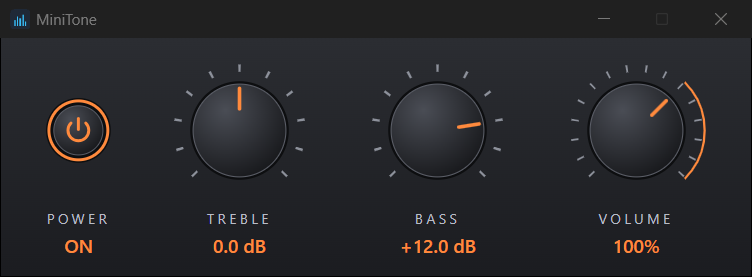
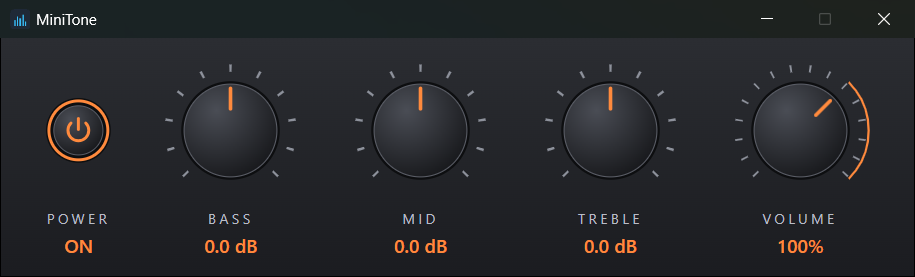
「中音（MID）のツマミを足す」を済みにし、README の画面の絵を差し替える

diff --git a/CLAUDE.md b/CLAUDE.md
@@ -37,7 +37,7 @@
   - Treble と Bass は、アンプのトーンコントロールと同じ種類のフィルタ（シェルビング）。
   - Volume は 0〜150%。100% が元の音量。
   - Treble は 5 kHz から上、Bass は 150 Hz から下を ±20 dB（周波数は 2026-11-20 にこの値で確定）。
-  - Mid は 2 kHz を中心に ±20 dB（山の形のフィルタ、設定ファイルの `band=2000,増減,0.7`。2026-11-20 にユーザーが「2 kHz で 20 dB」と決定）。声の聞き取りに効く帯域。調べたことと経緯は `docs/plans/three-band-tone.md`。
+  - Mid は 2 kHz を中心に ±20 dB（山の形のフィルタ、設定ファイルの `band=2000,増減,0.7`。2026-11-20 にユーザーが「2 kHz で 20 dB」と決定）。声の聞き取りに効く帯域。調べたことと経緯は `docs/plans/archive/three-band-tone.md`。
   - Treble、Mid、Bass を上げると、音がデジタルの上限を超え、APO の後ろにある Windows のリミッターが全体を下げて、音が揺れる（2026-11-19 に確認）。これを防ぐため、APO は上げている帯域の上げ幅を、出力が上限を超えない範囲に自動で抑える（設定の `limit=1`）。全体の音量は下げない。大きい音の場面では上げ幅が減り、小さい音の場面では設定どおり上がる。経緯と試算は `docs/plans/archive/tone-wobble.md`。
 - **プリセットは入れない。出力デバイスごとの設定は持たない**（設定は全部のデバイスで共通。2026-11-20 にユーザーが決定）。
 - 画面は小さい横長のウィンドウ（730 x 190）。左から、電源の丸い押しボタン（直径 52 px）、BASS、MID、TREBLE、VOLUME。黒いアルミのパネルにオレンジの指針。

diff --git a/TODO.md b/TODO.md
@@ -20,12 +20,6 @@
 
 ## 実装
 
-- [~] 中音（MID）のツマミを足す [plan](docs/plans/three-band-tone.md)
-  - 2026-11-20 にユーザーが検討を指示し、調べた結果を見て「2 kHz で 20 dB で中音を入れて」と決定。BASS、MID、TREBLE、VOLUME の 4 つ
-  - [x] メリットとデメリットを出し、入れるべきかを調べる
-  - [x] MID（2 kHz、±20 dB）を足し、README と CLAUDE.md を直してビルドする
-  - [ ] 新しいインストーラを入れ、MID の効き方を耳で確かめる（ユーザー）
-  - [ ] README の画面の絵（`docs/images/minitone.png`）を 4 つのツマミのものに差し替える
 - [ ] ツマミを操作したあとにキーボードの音量調整を行うと、ツマミの周りにオレンジの丸が表示されるのを直す
   - 2026-11-20 にユーザーが報告
   - 見立て（まだ確かめていない）: オレンジの丸は、キーボードで選んでいるツマミを示す枠（`style.css` の `.knob:focus-visible` の outline）。マウスで操作したツマミにフォーカスが残り、キーボードの音量のキーを押すと、キーボードの操作とみなされて枠が出る

diff --git a/DONE.md b/DONE.md
@@ -28,3 +28,7 @@
 - [x] アプリ名を MiniTone にする（2026-11-20） [plan](docs/plans/archive/rename-minitone.md)
   - 表示、実行ファイル、インストーラ、README の名前と、内部の名前（GitHub のリポジトリ、設定とログのフォルダ、APO の DLL、レジストリ、開発用のフォルダ、WSL のフォルダ、project-manager の登録）を変えた。CLSID は変えていない
   - 前の版（equalizer）をアンインストールしてから MiniTone を入れ、表示と音をユーザーが確かめた
+- [x] 中音（MID）のツマミを足す（2026-11-20） [plan](docs/plans/archive/three-band-tone.md)
+  - ユーザーが検討を指示し、調べた結果（声の聞き取りに効くのは 1 〜 4 kHz）を見て「2 kHz で 20 dB」と決定。BASS、MID、TREBLE、VOLUME の 4 つ。ウィンドウの幅は 730
+  - APO は変えていない（設定ファイルの `band=2000,増減,0.7`）。ユーザーが音を確かめ、「問題なかったので入れたままにする」と確認
+  - README の画面の絵を 4 つのツマミのものに差し替えた
